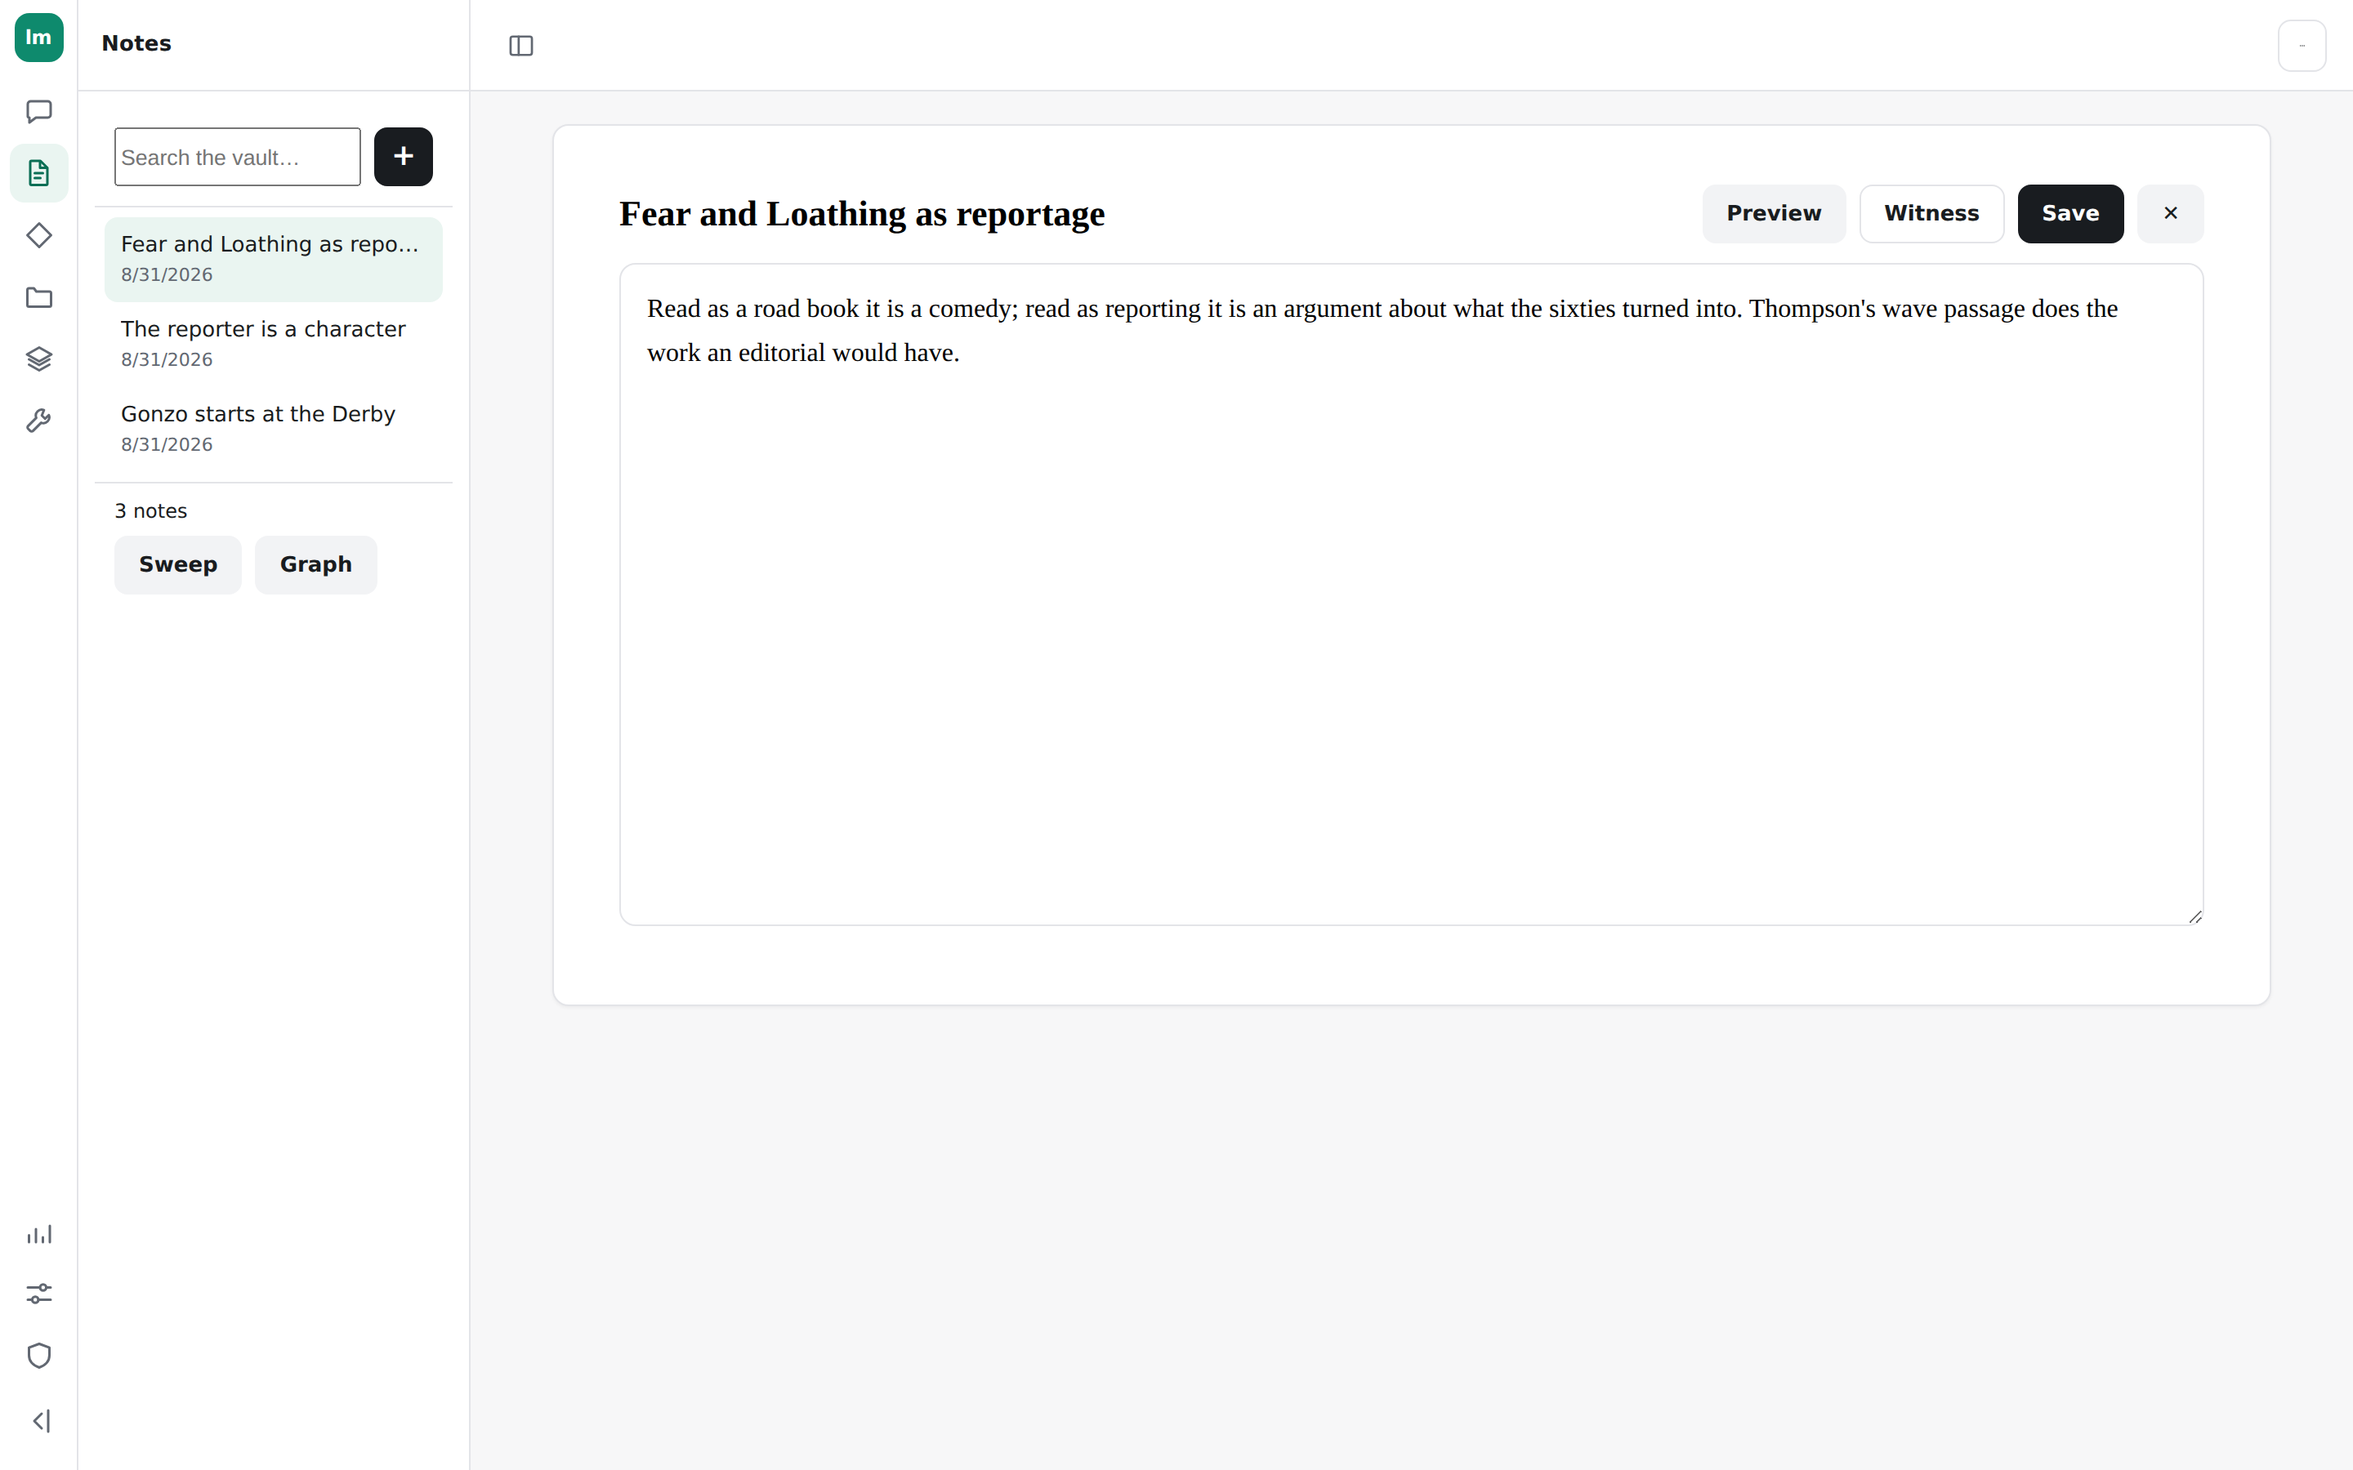
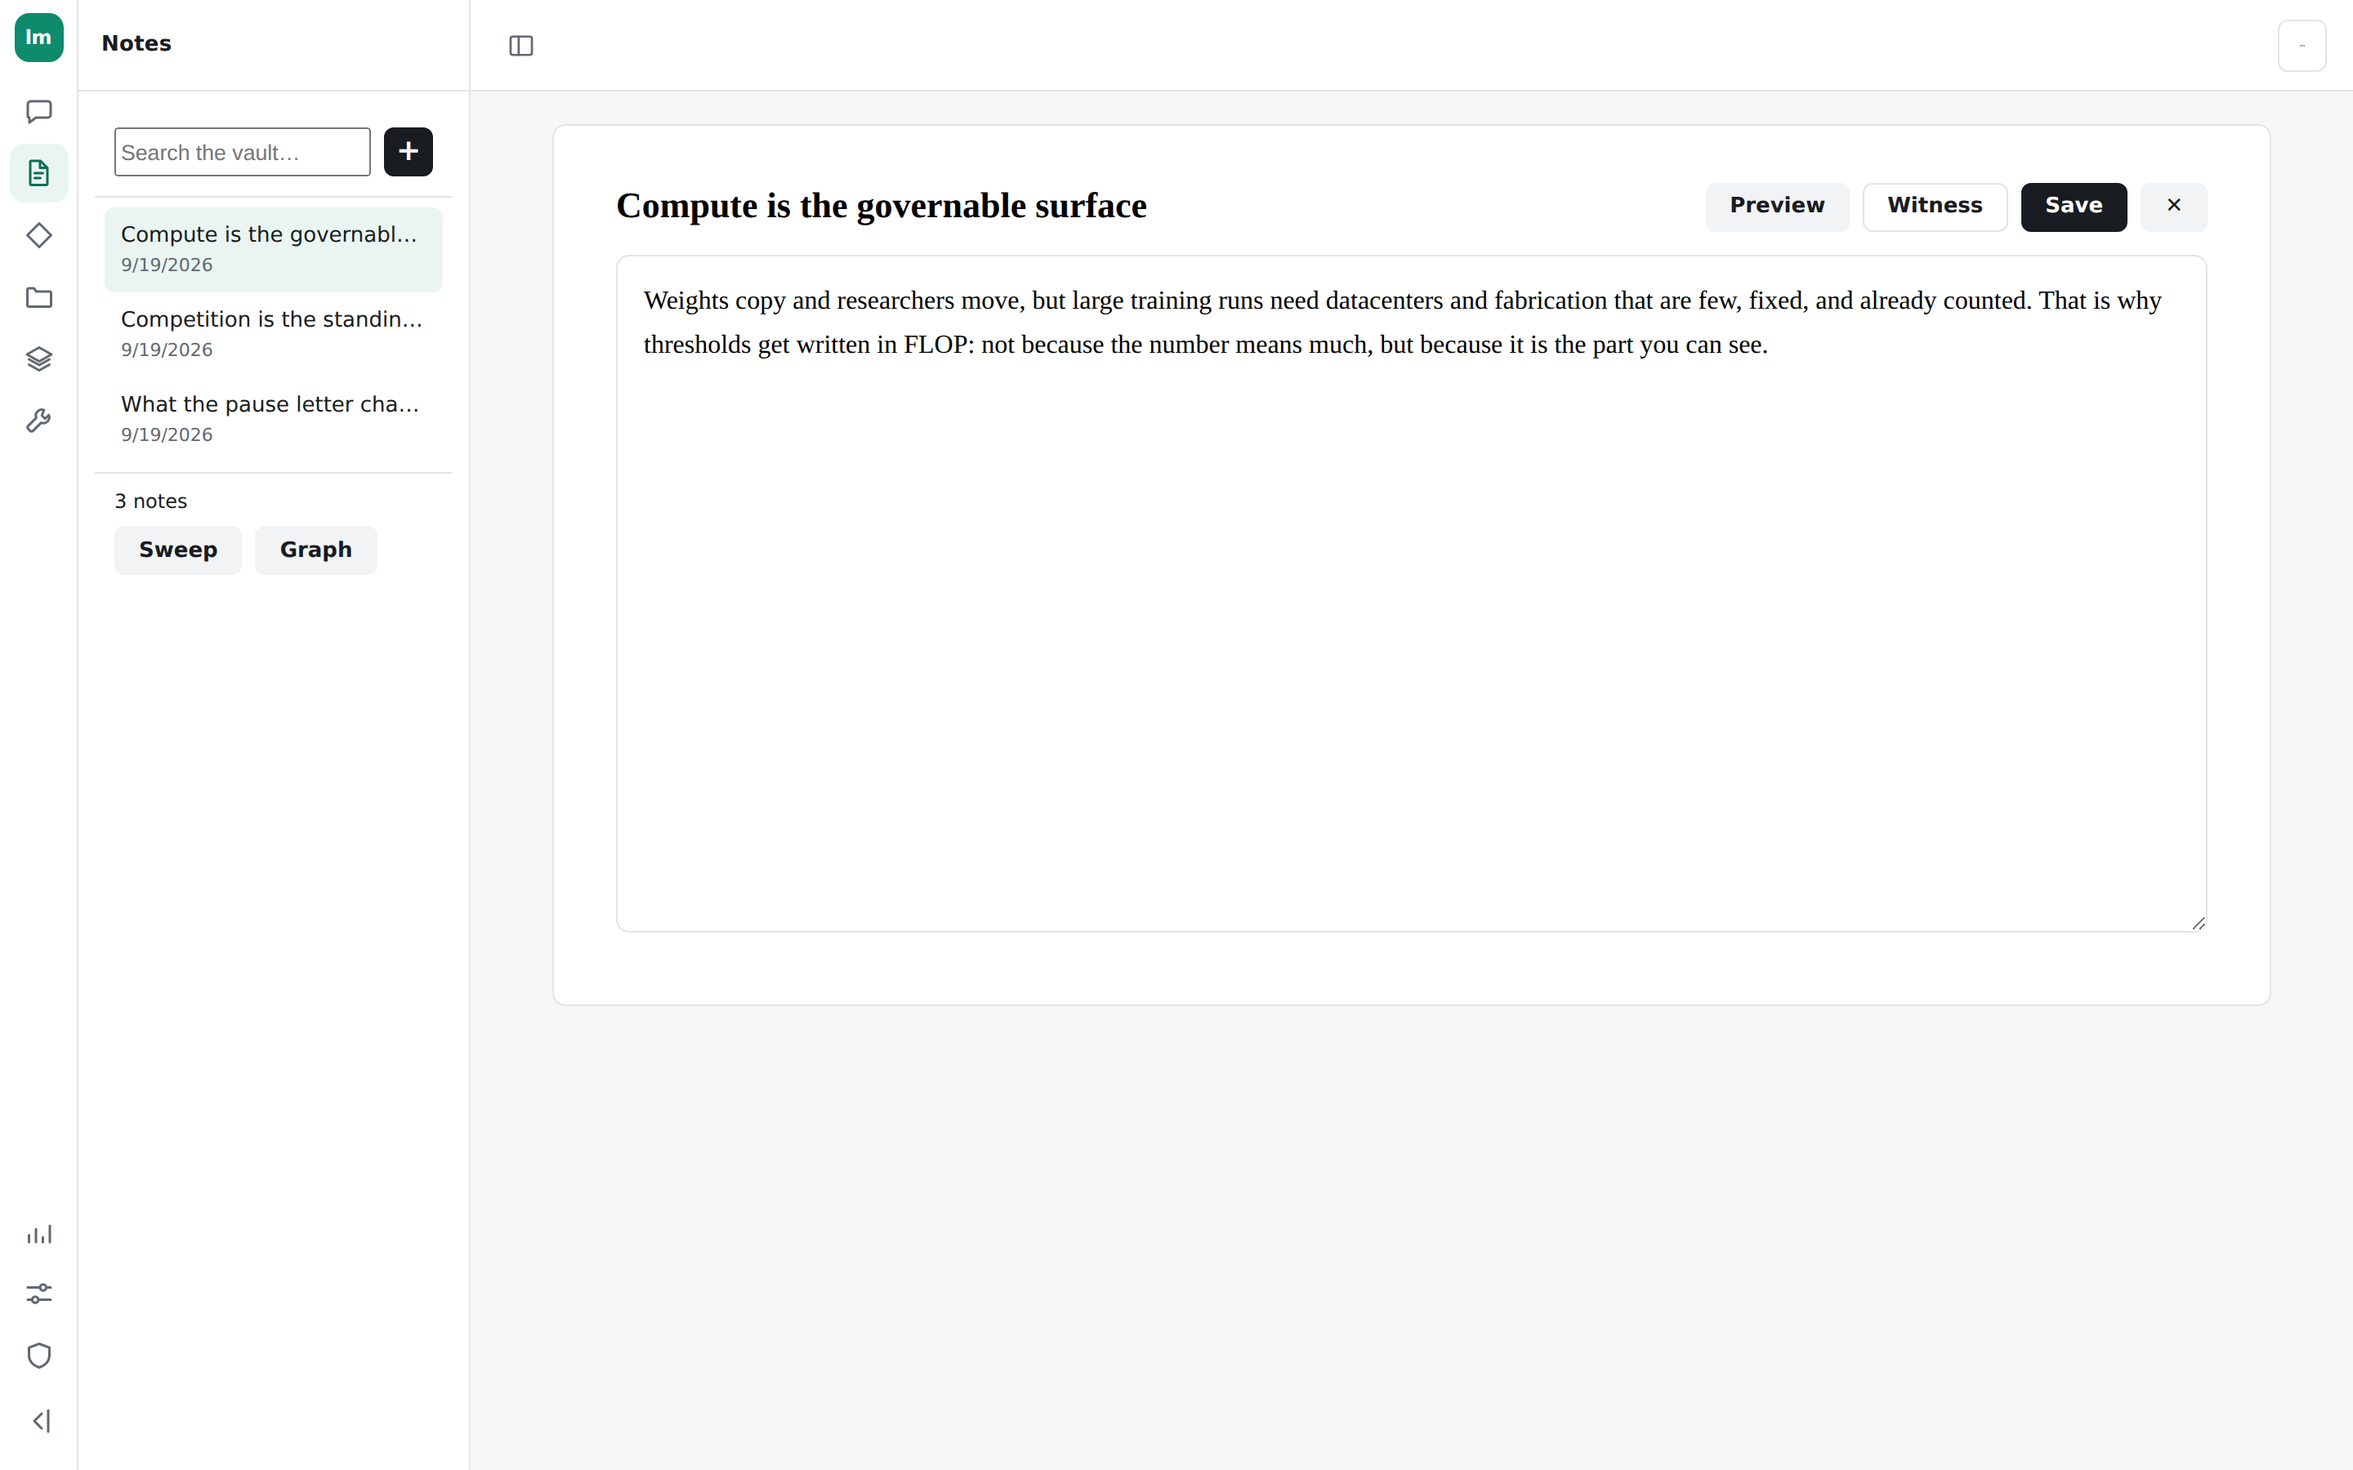
Recapture every README screenshot, and stop the script capturing empty states
The ten images under `docs/screenshots/` predate the design sweep, so every
one of them shows the retired vocabulary: grey cards, pill badges, and the
36px control height.

Three of the selectors the capture script clicks - `.context-card`,
`.artifact-card`, `.tool-card` - no longer exist. That alone did not fail
the capture. The script printed "no .tool-card to select" and carried on, so
it photographed the unselected pane and exited 0. A stale selector now
raises: an image that documents the empty state is worse than no image,
because it looks deliberate.

The demo workspace moves to the frontier AI pause debate. The second
question in the thread names nobody, which is the property the chat
screenshot exists to show.

The Contexts screen was captured reading "No sources added yet" and "0
chunks loaded" because the uploads were never indexed into the context. The
seed now adds them as a source and checks that chunks came back: the source
endpoint answers 201 for a path that matched no document, so the status code
alone is not evidence. The path is relative - it resolves against the
caller's own root, and the rooted form is refused.

The extra threads are gone. They were opened after the chat shot so the
conversation list would look used on later screens, but each section has its
own pane now and no screen below shows that list, so they cost two live
answers and appeared in no image.

`docs/ui.md` still listed `.context-card`, `.type-badge` and
[…]

diff --git a/scripts/capture_screenshots.py b/scripts/capture_screenshots.py
@@ -55,62 +55,64 @@ VIEWPORT = {"width": 1440, "height": 900}
 #: Insights and Settings have no pane and select nothing.
 TABS = [
     ("notes-tab", "03-notes", ".note-item"),
-    ("contexts-tab", "04-contexts", ".context-card"),
+    ("contexts-tab", "04-contexts", ".row"),
     ("files-tab", "05-files", None),
-    ("artifacts-tab", "06-artifacts", ".artifact-card"),
-    ("tools-tab", "07-tools", ".tool-card"),
+    ("artifacts-tab", "06-artifacts", ".row"),
+    ("tools-tab", "07-tools", ".row"),
     ("insights-tab", "08-insights", None),
     ("settings-tab", "09-settings", None),
 ]
 
+#: The second question names nobody. Answering it about the same subject is
+#: the property the chat screenshot exists to show, so it must stay
+#: unanchored: no "the pause", no "the 2023 calls".
 FIRST_THREAD = [
-    "Who is Sergey Brin, and what is he best known for?",
-    "What did he study before that, and where?",
-]
-#: Extra threads, so every screen after the chat shot shows a used workspace
-#: in the conversation sidebar rather than a first-run one.
-EXTRA_THREADS = [
-    "Who was Hunter S. Thompson, and why does his reporting still get "
-    "argued about?",
-    "What is gonzo journalism, and which piece started it?",
+    "Why did the 2023 calls to pause frontier AI training fail to stop "
+    "any lab?",
+    "Which of those obstacles does competition between countries make worst?",
 ]
 
 DOC = (
-    "# Gonzo, in one page\n\n"
-    "Hunter S. Thompson filed *The Kentucky Derby Is Decadent and Depraved* "
-    "in 1970 against a closing deadline, sending pages torn straight from "
-    "his notebook. The reporter stopped pretending to be absent from the "
-    "story, and the method got a name.\n"
+    "# The pause debate, in one page\n\n"
+    "In March 2023 an open letter asked labs to stop training systems more "
+    "capable than GPT-4 for six months. No lab stopped. Its lasting effect "
+    "was to move the argument from *whether* frontier training should be "
+    "governed to *which lever does it*: compute thresholds, evaluation "
+    "before deployment, or reporting requirements.\n"
 )
 FILES = [
-    ("gonzo-in-one-page.md", DOC.encode(), "text/markdown"),
+    ("pause-debate-in-one-page.md", DOC.encode(), "text/markdown"),
     (
-        "thompson-reading-list.txt",
-        b"Hell's Angels (1967)\n"
-        b"The Kentucky Derby Is Decadent and Depraved (1970)\n"
-        b"Fear and Loathing in Las Vegas (1971)\n"
-        b"Fear and Loathing on the Campaign Trail '72 (1973)\n",
+        "frontier-ai-reading-list.txt",
+        b"Pause Giant AI Experiments: An Open Letter (2023)\n"
+        b"The Bletchley Declaration (2023)\n"
+        b"US Executive Order 14110 on AI (2023)\n"
+        b"EU AI Act, final text (2024)\n"
+        b"International AI Safety Report (2025)\n",
         "text/plain",
     ),
 ]
 NOTES = [
     (
-        "Gonzo starts at the Derby",
-        "The 1970 Scanlan's piece is the origin point: no finished draft, "
-        "notebook pages wired in as they were, the writer visibly inside the "
-        "scene. What reads as style began as a deadline being missed.",
+        "What the pause letter changed",
+        "No lab stopped training, so by its own terms it failed. What "
+        "changed was the default question: a frontier training run became "
+        "something a lab might owe an account of, and every rule since "
+        "argues over which account counts.",
     ),
     (
-        "The reporter is a character",
-        "New Journalism let reporting borrow the novel's tools. Gonzo went "
-        "further and made the reporter's own state part of the evidence, "
-        "which is either the point or the flaw depending on the reader.",
+        "Competition is the standing objection",
+        "Every proposal to slow the frontier meets the same reply: a "
+        "one-sided slowdown moves capability rather than removing it. That "
+        "reply is strongest where verification is weakest, which makes "
+        "measurement the load-bearing problem rather than persuasion.",
     ),
     (
-        "Fear and Loathing as reportage",
-        "Read as a road book it is a comedy; read as reporting it is an "
-        "argument about what the sixties turned into. Thompson's wave "
-        "passage does the work an editorial would have.",
+        "Compute is the governable surface",
+        "Weights copy and researchers move, but large training runs need "
+        "datacenters and fabrication that are few, fixed, and already "
+        "counted. That is why thresholds get written in FLOP: not because "
+        "the number means much, but because it is the part you can see.",
     ),
 ]
 
@@ -214,26 +216,65 @@ def unwrap(resp) -> dict:
 def seed(client, token: str) -> None:
     """Fill the workspace through the same API the SPA calls."""
     headers = {"Authorization": f"Bearer {token}"}
+    user_id = unwrap(client.get("/v1/me", headers=headers)).get("id")
 
-    client.post(
-        "/v1/contexts",
-        headers=headers,
-        json={
-            "name": "Gonzo",
-            "description": "Sources on Hunter S. Thompson and the New Journalism.",
-        },
+    context = unwrap(
+        client.post(
+            "/v1/contexts",
+            headers=headers,
+            json={
+                "name": "Frontier AI policy",
+                "description": (
+                    "Sources on the pause debate, compute governance, and "
+                    "international competition."
+                ),
+            },
+        )
     )
     for name, body, mime in FILES:
         client.post(
             "/v1/files/upload", headers=headers, files={"file": (name, body, mime)}
         )
+
+    # Index the uploads into the context. Without this the Contexts screen is
+    # captured reading "No sources added yet" and "0 chunks loaded", which
+    # documents an empty context rather than the retrieval the screen is for.
+    # The path is relative: it is resolved against the caller's own root, so
+    # "files" reaches `users/{user_id}/files`, where uploads land. Passing
+    # the rooted path instead produces `users/{id}/users/{id}/files`, which
+    # this endpoint accepts and indexes nothing from.
+    context_id = context.get("id")
+    if context_id:
+        added = client.post(
+            f"/v1/contexts/{context_id}/sources",
+            headers=headers,
+            json={"fs_path": "files", "recursive": True},
+        )
+        if added.status_code != 201:
+            raise SystemExit(
+                f"could not index the uploads into the context "
+                f"(HTTP {added.status_code}): {added.text[:300]}"
+            )
+        # 201 only means the path was accepted and recorded. A path that
+        # matched no document is indexed to nothing and still answers 201,
+        # so the chunks are what say the sources are really there. This
+        # reads the endpoint the Contexts screen itself reads, rather than
+        # a count field that endpoint does not return.
+        chunks = unwrap(
+            client.get(f"/v1/contexts/{context_id}/chunks?limit=20", headers=headers)
+        ).get("items")
+        if not chunks:
+            raise SystemExit(
+                "the context indexed no chunks, so the Contexts screen "
+                "would document an empty context"
+            )
+
     for title, content in NOTES:
         client.post(
             "/v1/notes", headers=headers, json={"title": title, "content": content}
         )
 
     # The admin console is a screen too, so the demo account needs the role.
-    user_id = unwrap(client.get("/v1/me", headers=headers)).get("id")
     if user_id:
         from liminallm.service.runtime import get_runtime
 
@@ -332,29 +373,31 @@ def capture(args: argparse.Namespace, base: str) -> list[pathlib.Path]:
         time.sleep(0.8)
         shot("02-chat")
 
-        # Set dressing: these exist so the conversation list is not empty in
-        # every screen after the chat shot. The first thread is the subject
-        # of a screenshot and so is fatal when it fails; one of these is not
-        # worth losing a whole live capture over.
-        for question in EXTRA_THREADS:
-            page.click("#new-thread")
-            time.sleep(1.2)
-            try:
-                ask([question])
-            except RuntimeError as exc:
-                print(f"  skipping an extra thread: {exc}", flush=True)
+        # This is the only thread the capture opens. Extra threads would be
+        # set dressing for a conversation list that no screen below shows:
+        # each section has its own pane, and the chat shot is already taken.
 
         for tab_id, name, pick in TABS:
             page.click(f"#main-tabs .rail-btn[data-tab='{tab_id}']")
             page.wait_for_selector(f"#{tab_id}.active", state="visible")
             time.sleep(1.2)
             if pick:
+                # Fatal, not a warning. A selector that no longer matches
+                # anything is how these images went stale: the pane renders,
+                # nothing is selected, and the capture succeeds with a shot
+                # of the empty state that looks deliberate. Renaming a class
+                # in the frontend has to break this script loudly.
                 item = f".pane-view[data-pane='{tab_id}'] {pick}"
-                if page.locator(item).count():
-                    page.locator(item).first.click()
-                    time.sleep(1.2)
-                else:
-                    print(f"  no {pick} to select for {name}", flush=True)
+                try:
+                    page.wait_for_selector(item, state="visible", timeout=15000)
+                except Exception as exc:  # noqa: BLE001 - re-raised below
+                    raise RuntimeError(
+                        f"nothing matched {pick!r} in the {tab_id} pane, so "
+                        f"{name} would document the empty state; check "
+                        "whether the frontend renamed the class"
+                    ) from exc
+                page.locator(item).first.click()
+                time.sleep(1.2)
             shot(name)
 
         page.goto(f"{base}/admin", wait_until="domcontentloaded")

diff --git a/docs/ui.md b/docs/ui.md
@@ -97,9 +97,10 @@ layout, styling, and client implementation patterns. The frontend source
 
 ## file upload panel
 
-- collapsible panel in the Files tab; context dropdown (or private/no
-  context); optional chunk size (64–4000, validated); client-side size and
-  extension checks before upload; inline progress and result feedback.
+- a single strip in the Files tab - file, context, and the upload button on
+  one line; context dropdown (or private/no context); chunk size (64-4000,
+  validated) behind an `Advanced` disclosure; client-side size and extension
+  checks before upload; inline progress and result feedback.
 
 ## feedback controls
 
@@ -127,9 +128,15 @@ layout, styling, and client implementation patterns. The frontend source
 ## styling system
 
 - CSS custom properties for theming: `--accent`, `--text`, `--panel`,
-  `--border`, and so on.
+  `--border`, and so on. Control sizing is tokenized too: `--ctl-h`,
+  `--ctl-h-sm`, `--icon-hit`, `--icon-glyph`, `--chip-h`.
+- list classes: `.row` is the one list primitive every pane uses - a flat
+  row with `.row-icon`, `.row-name`, `.row-meta` and hover-revealed
+  `.row-actions`. A selected row takes a faint fill and a 2px left marker,
+  which is the same selection language the application rail uses.
 - component classes: `.panel`, `.badge`, `.table`, `.code-block`,
-  `.context-card`, `.type-badge`, `.visibility-badge`.
+  `.factline` (a dot-separated line of facts), `.chip`, `.figures`,
+  `.deflist`, `.hairline-table`, `.icon-btn`.
 - utility classes: `.hidden`, `.flex-row`, `.pill-row`, `.divider`, `.mb-14`,
   `.monospace`.
 - media queries at 1080px (hide sidebar) and 640px (single-column layout).
